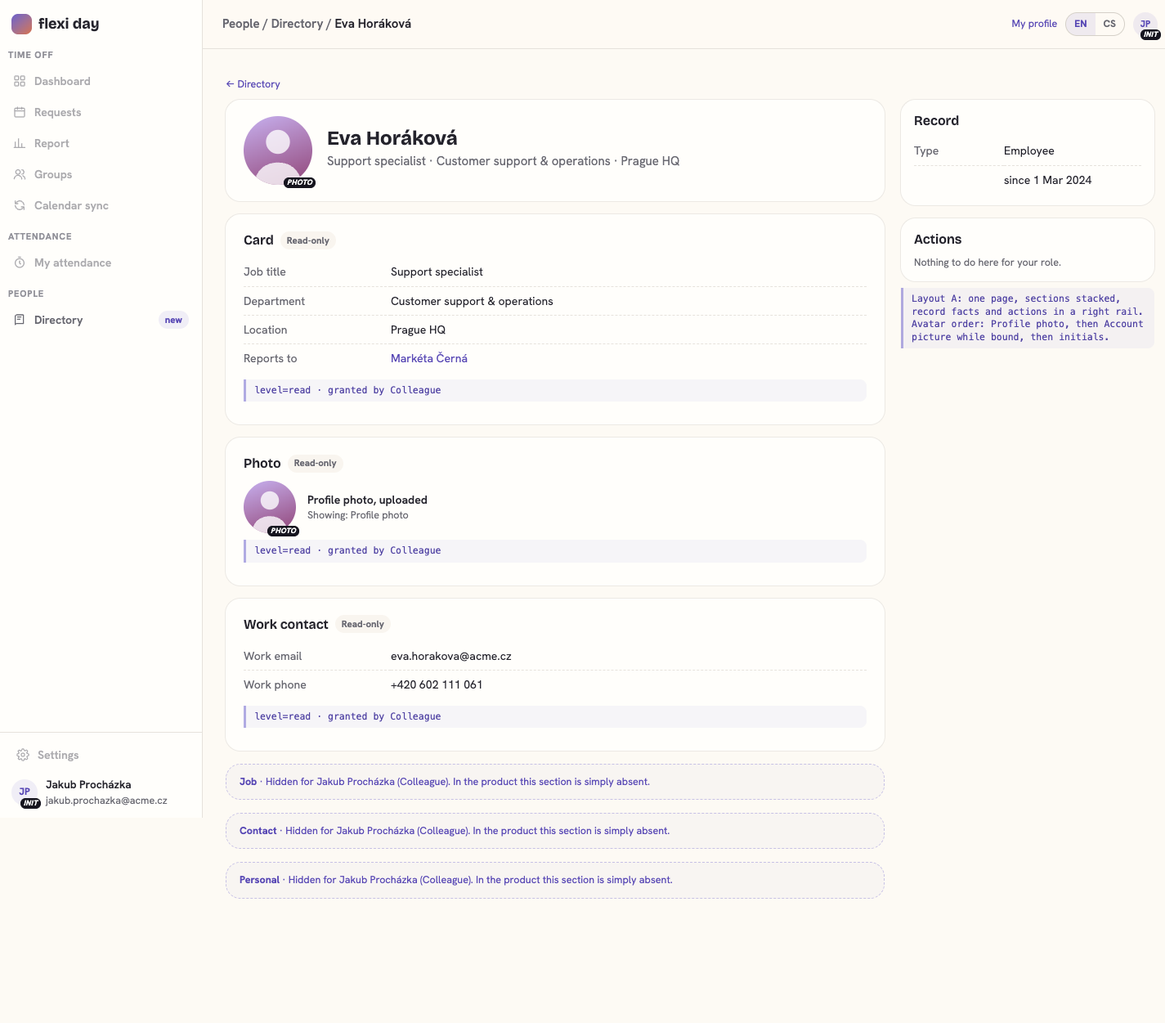
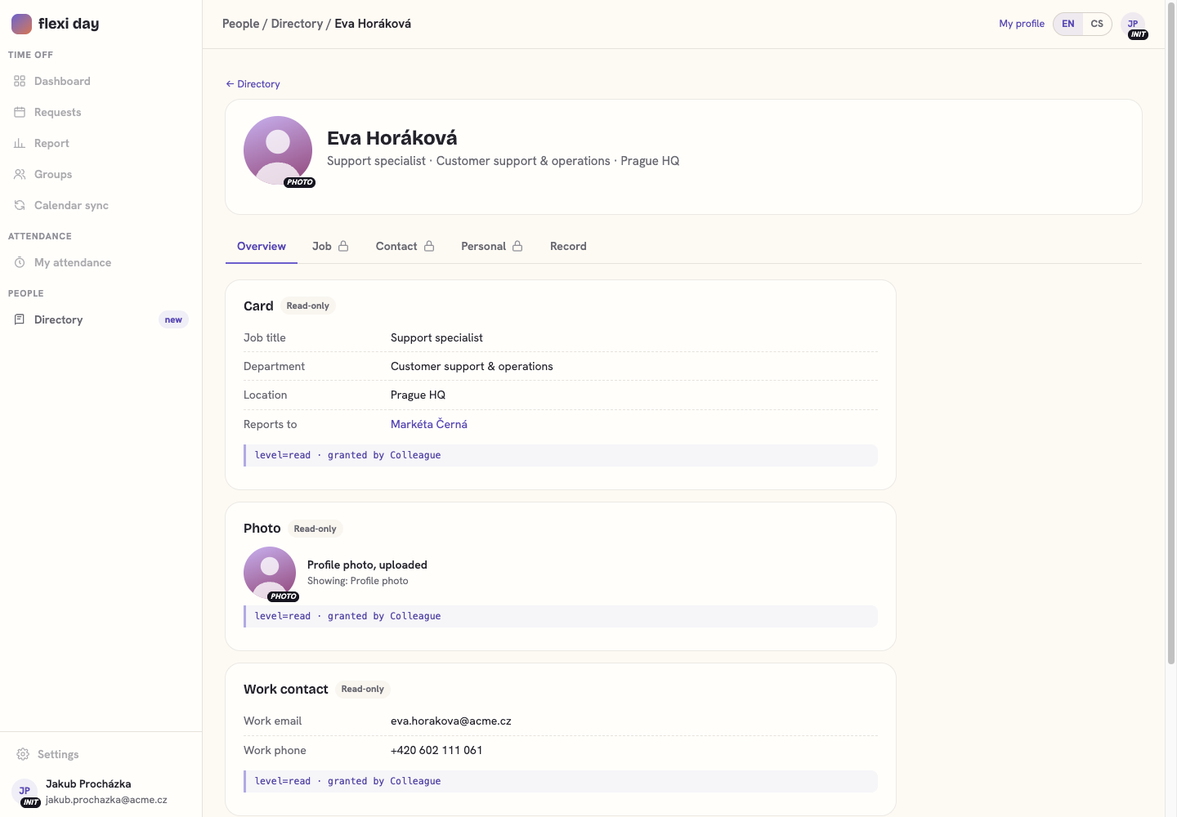
Prototype round 2: tabbed profile, sections opened on Show, rebuilt Add person (T-478)
- Profile keeps only the header-and-tabs layout; directory keeps cards, with a
  remembered Cards/Table toggle in the filter row.
- Contact and Personal of someone else start closed on the profile and the
  edit form; Show loads one section and writes the read-log row.
- Add person now has the worker type, Card fields, an optional email with an
  invite choice, and inline validation.
- Radios and checkboxes no longer inherit the text-input sizing that broke
  the dialogs.

diff --git a/prototypes/directory-web/index.html b/prototypes/directory-web/index.html
@@ -5,7 +5,7 @@
   Question it answers: how the directory, profile, edit form, settings and dialogs
   look and behave on the web, and how the permission table changes them per viewer.
   Pages are hash routes (#/directory, #/person/eva, ...). The dark bar at the
-  bottom is the prototype's own control: viewer, plan, layout variant, annotations.
+  bottom is the prototype's own control: viewer, plan, jump-to, annotations. Round 2: profile is the tabbed layout (W1), Contact and Personal open on Show (W2).
 -->
 <html lang="en">
   <head>
@@ -110,6 +110,27 @@
       .chip.rev { background: var(--review-soft); color: var(--review); }
       .chip.line { background: transparent; box-shadow: inset 0 0 0 1px var(--border-strong); }
       input, select, textarea { font: inherit; color: var(--text); background: var(--surface); border: 1px solid var(--border-strong); border-radius: 10px; height: 36px; padding: 0 10px; min-width: 0; }
+      input[type="checkbox"], input[type="radio"] { height: 16px; width: 16px !important; padding: 0; margin: 0; border: 0; flex-shrink: 0; accent-color: var(--primary); }
+      input.bad, select.bad { border-color: var(--danger); box-shadow: 0 0 0 3px var(--danger-soft); }
+      .err { font-size: 12px; color: var(--danger); margin-top: 4px; font-weight: 600; }
+      .err:empty { display: none; }
+      a.hint { color: var(--primary-strong); }
+      .req { color: var(--danger); margin-left: 2px; }
+      .choice { display: grid; grid-template-columns: 1fr 1fr; gap: 10px; }
+      .choice label { display: flex; gap: 10px; align-items: flex-start; padding: 12px 14px; border-radius: 14px; box-shadow: inset 0 0 0 1px var(--border-strong); cursor: pointer; }
+      .choice label.on { box-shadow: inset 0 0 0 2px var(--primary); background: var(--primary-soft); }
+      .choice label input { margin-top: 2px; }
+      .choice b { display: block; }
+      .choice span.small { color: var(--muted); }
+      .dlg-sec { font-size: 11.5px; font-weight: 700; letter-spacing: 0.06em; text-transform: uppercase; color: var(--faint); margin: 18px 0 8px; }
+      .dlg-sec:first-child { margin-top: 4px; }
+      .checkline { display: flex; gap: 10px; align-items: flex-start; padding: 10px 12px; border-radius: 12px; background: var(--surface-2); cursor: pointer; }
+      .checkline.dis { opacity: 0.55; cursor: not-allowed; }
+      .checkline input { margin-top: 2px; }
+      .reveal { display: flex; align-items: center; gap: 12px; padding: 14px 16px; border-radius: 14px; background: var(--surface-2); }
+      .viewtoggle { display: inline-flex; border: 1px solid var(--border-strong); border-radius: 10px; overflow: hidden; margin-left: auto; }
+      .viewtoggle button { border: 0; background: var(--surface); height: 34px; padding: 0 12px; font: inherit; font-weight: 600; font-size: 13px; color: var(--muted); cursor: pointer; display: inline-flex; gap: 6px; align-items: center; }
+      .viewtoggle button.on { background: var(--primary-soft); color: var(--primary-strong); }
       textarea { height: auto; padding: 8px 10px; width: 100%; }
       input:disabled, select:disabled, textarea:disabled { background: var(--surface-2); color: var(--muted); }
       input:focus, select:focus, textarea:focus { outline: 2px solid oklch(0.55 0.165 285 / 0.4); outline-offset: 0; }
@@ -441,7 +462,8 @@
 
       // ---------- state ----------
       const S = {
-        route: "/directory", role: "orgAdmin", plan: "ent", lang: "en", pv: "A", dv: "A", ann: true,
+        route: "/directory", role: "orgAdmin", plan: "ent", lang: "en", ann: true, revealed: {},
+        dv: (() => { try { return localStorage.getItem("proto-dir-view") || "A"; } catch (e) { return "A"; } })(),
         enabled: true, agreement: { v: 1, by: "Richard Kolář", at: "2026-09-02" }, agreementV2: false,
         f: { q: "", dept: "", loc: "", type: "" }, ptab: "overview", dialog: null, toast: null, exports: {}, orgExport: null,
         perms: {
@@ -589,12 +611,13 @@
         const [path, q] = h.split("?");
         S.route = path || "/directory";
         const params = new URLSearchParams(q || "");
-        for (const k of ["role", "plan", "lang", "pv", "dv"]) if (params.get(k)) S[k] = params.get(k);
+        for (const k of ["role", "plan", "lang"]) if (params.get(k)) S[k] = params.get(k);
+        if (params.get("view")) S.dv = params.get("view");
         if (params.get("ann")) S.ann = params.get("ann") === "1";
         if (params.get("ptab")) S.ptab = params.get("ptab");
       }
       function hashFor(path) {
-        const q = new URLSearchParams({ role: S.role, plan: S.plan, lang: S.lang, pv: S.pv, dv: S.dv, ann: S.ann ? "1" : "0" });
+        const q = new URLSearchParams({ role: S.role, plan: S.plan, lang: S.lang, ann: S.ann ? "1" : "0" });
         return "#" + path + "?" + q.toString();
       }
       const sync = () => history.replaceState(null, "", hashFor(S.route));
@@ -604,26 +627,28 @@
       const A = {
         go(path) {
           const [p, anchor] = path.split("#");
+          const pid = (s) => (s.match(/^\/person\/([^/]+)/) || [])[1];
+          if (pid(p) !== pid(S.route)) { S.revealed = {}; S.ptab = "overview"; }
           S.route = p; S.dialog = null;
           history.pushState(null, "", hashFor(p));
-          logReadIfNeeded();
           render(); window.scrollTo(0, 0);
           if (anchor) { const el = document.getElementById(anchor); if (el) el.scrollIntoView(); }
         },
         set(k, v) {
           S[k] = v; S.dialog = null;
-          if (k === "plan" && v === "ent") S.agreementV2 = S.agreementV2;
-          sync(); logReadIfNeeded(); render();
+          if (k === "role") S.revealed = {};
+          sync(); render();
         },
+        view(v) { S.dv = v; try { localStorage.setItem("proto-dir-view", v); } catch (e) {} render(); },
         filter(k, v) { S.f[k] = v; render(); },
-        open(kind, extra = {}) { S.dialog = { kind, ...extra }; render(); },
+        open(kind, extra = {}) {
+          S.dialog = { kind, ...extra };
+          if (kind === "add") S.dialog.form = { name: "", type: "employee", title: "", dept: "", loc: "", reportsTo: "", email: "", invite: true };
+          render();
+          if (kind === "add") document.getElementById("addname")?.focus();
+        },
         close() { S.dialog = null; render(); },
         toast(msg) { S.toast = msg; render(); clearTimeout(toastTimer); toastTimer = setTimeout(() => { S.toast = null; render(); }, 2600); },
-        variant(dir) {
-          const k = pageVariantKey(); if (!k) return;
-          const list = ["A", "B"]; const i = list.indexOf(S[k]);
-          S[k] = list[(i + dir + list.length) % list.length]; sync(); render();
-        },
         setPerm(row, aud, val) {
           const before = (S.perms[row] || S.acts[row])[aud];
           (S.perms[row] || S.acts[row])[aud] = val;
@@ -676,19 +701,26 @@
         removePhoto(id) { P[id].photo = null; A.toast("Profile photo removed. Showing the next fallback."); },
       };
       const nowTime = () => { const d = new Date(); return String(d.getHours()).padStart(2, "0") + ":" + String(d.getMinutes()).padStart(2, "0"); };
-      let lastLogged = "";
-      function logReadIfNeeded() {
-        const m = S.route.match(/^\/person\/([^/]+)/);
-        if (!m || !P[m[1]]) return;
-        const r = P[m[1]], v = viewer();
-        if (r.id === v.id) return;
-        const secs = ["contact", "personal"].filter((s) => { const l = level(v, r, s); return l === "read" || l === "write"; });
-        if (!secs.length) return;
-        const key = v.id + r.id + S.route;
-        if (key === lastLogged) return;
-        lastLogged = key;
-        S.readLog.unshift({ at: TODAY + " " + nowTime(), reader: v.name, person: r.name, secs: secs.map((s) => t("sec_" + s)).join(", "), aud: t("aud_" + grantedBy(v, r, secs[0])), kind: "read" });
+      function addErrors(f) {
+        const cs = S.lang === "cs";
+        const e = {};
+        const name = (f.name || "").trim(), email = (f.email || "").trim().toLowerCase();
+        if (!name) e.name = cs ? "Vyplňte jméno." : "Enter a name.";
+        if (email && !/^[^@\s]+@[^@\s]+\.[^@\s]+$/.test(email)) e.email = cs ? "Zadejte e-mail ve tvaru jmeno@example.com." : "Enter an email like name@example.com.";
+        else if (email) {
+          const clash = openPeople().find((p) => p.email.toLowerCase() === email);
+          if (clash) e.email = cs ? `${clash.name} už tento e-mail používá.` : `${clash.name} already uses this email. Each open Employment needs its own.`;
+        }
+        if (f.invite && !email && f.inviteAsked) e.email = cs ? "Pozvánka potřebuje e-mail." : "An invite needs an email.";
+        return e;
       }
+      const revealed = (r, s) => r.id === viewer().id || !!S.revealed[r.id + ":" + s];
+      A.reveal = (id, s) => {
+        const r = P[id], v = viewer();
+        S.revealed[id + ":" + s] = true;
+        S.readLog.unshift({ at: TODAY + " " + nowTime(), reader: v.name, person: r.name, secs: t("sec_" + s), aud: t("aud_" + grantedBy(v, r, s)), kind: "read" });
+        render();
+      };
 
       // ---------- shell ----------
       function shell(content) {
@@ -815,6 +847,7 @@
             <select onchange="A.filter('dept',this.value)"><option value="">${t("allDepts")}</option>${usedDepts.map((d) => `<option value="${d.id}" ${S.f.dept === d.id ? "selected" : ""}>${d.name}</option>`).join("")}</select>
             <select onchange="A.filter('loc',this.value)"><option value="">${t("allLocs")}</option>${usedLocs.map((d) => `<option value="${d.id}" ${S.f.loc === d.id ? "selected" : ""}>${d.name}</option>`).join("")}</select>
             <select onchange="A.filter('type',this.value)"><option value="">${t("allTypes")}</option><option value="employee" ${S.f.type === "employee" ? "selected" : ""}>${t("onlyEmp")}</option><option value="external" ${S.f.type === "external" ? "selected" : ""}>${t("onlyExt")}</option></select>
+            <div class="viewtoggle"><button class="${S.dv === "A" ? "on" : ""}" onclick="A.view('A')">${I.grid} ${S.lang === "cs" ? "Karty" : "Cards"}</button><button class="${S.dv === "B" ? "on" : ""}" onclick="A.view('B')">${I.users} ${S.lang === "cs" ? "Tabulka" : "Table"}</button></div>
           </div>`;
         let body;
         if (S.dv === "A") {
@@ -891,7 +924,9 @@
         const sensitive = s === "contact" || s === "personal";
         const editBtn = m !== "read" && !gone ? `<button class="btn xs out" onclick="A.go('/person/${r.id}/edit#${s}')">${I.pen} ${m === "clear" ? t("clearOnly") : t("edit")}</button>` : "";
         let body;
+        const closed = sensitive && !gone && !revealed(r, s);
         if (gone) body = `<p class="muted small" style="margin:0">The fields of this section were emptied. The rest of the record stays.</p>`;
+        else if (closed) body = revealBox(r, s);
         else if (s === "photo") {
           const k = avatarKind(r, v);
           body = `<div class="row" style="gap:14px">${avatar(r, v, 64)}<div><div style="font-weight:600">${r.photo != null ? "Profile photo, uploaded" : "No Profile photo"}</div><div class="small muted">Showing: ${k}</div>
@@ -899,12 +934,15 @@
             ${m === "clear" && r.photo != null ? `<div class="row" style="margin-top:8px"><button class="btn xs ghost" onclick="A.removePhoto('${r.id}')">Remove</button></div>` : ""}</div></div>`;
         } else body = `<dl class="fl">${fieldRows(r, s, v)}</dl>`;
         return `<div class="card" id="sec-${s}">
-          <div class="sec-h"><h2>${t("sec_" + s)}</h2>${sensitive ? `<span class="faint" title="${t("sensitiveNote")}">${I.lock}</span>` : ""}${lvlChip(m)}<div class="grow"></div>${s !== "photo" ? editBtn : ""}</div>
-          ${sensitive && r.id !== v.id ? `<div class="sec-note">${I.eye} Your view of this section is recorded in the read log.</div>` : ""}
+          <div class="sec-h"><h2>${t("sec_" + s)}</h2>${sensitive ? `<span class="faint" title="${t("sensitiveNote")}">${I.lock}</span>` : ""}${lvlChip(m)}<div class="grow"></div>${s !== "photo" && !closed ? editBtn : ""}</div>
+          ${sensitive && r.id !== v.id && !closed && !gone ? `<div class="sec-note">${I.eye} You opened this section. The read log recorded it.</div>` : ""}
           ${rem ? `<div class="removal ${rem.k}">${rem.k === "hold" ? I.pause : I.hist} ${rem.text}</div>` : ""}
           ${body}
           ${S.ann ? `<div class="ann">level=${l}${m === "clear" ? " (lapsed: clear only)" : ""} · granted by ${t("aud_" + (grantedBy(v, r, s) || "colleague"))}</div>` : ""}
         </div>`;
+      }
+      function revealBox(r, s) {
+        return `<div class="reveal">${I.lock}<div class="grow"><div style="font-weight:600">${S.lang === "cs" ? "Skryto, dokud to neotevřete" : "Hidden until you open it"}</div><div class="small muted">Opening ${t("sec_" + s)} adds a row to the read log: you, ${r.name}, this section, now.</div></div><button class="btn sm out" onclick="A.reveal('${r.id}','${s}')">${I.eye} ${S.lang === "cs" ? "Zobrazit" : "Show"}</button></div>`;
       }
       function recordFacts(r, v) {
         const see = adminMarkers(v) || r.id === v.id;
@@ -918,7 +956,7 @@
         if (r.prevSpell && adminMarkers(v)) facts.push(["Earlier spell", `<a onclick="A.go('/person/${r.prevSpell}')">${fd(P[r.prevSpell].start)} to ${fd(P[r.prevSpell].ended)}</a>`]);
         if (r.rejoinedAs) facts.push(["Rejoined", `<a onclick="A.go('/person/${r.rejoinedAs}')">open spell since ${fd(P[r.rejoinedAs].start)}</a>`]);
         if (r.hold) facts.push(["Retention hold", `set by ${r.hold.by} on ${fd(r.hold.at)}`]);
-        return `<dl class="fl" style="grid-template-columns:110px 1fr">${facts.filter((f) => f[1]).map((f) => `<dt>${f[0]}</dt><dd>${f[1]}</dd>`).join("")}</dl>`;
+        return `<dl class="fl" style="grid-template-columns:110px 1fr">${facts.filter((f) => f[0] && f[1]).map((f) => `<dt>${f[0]}</dt><dd>${f[1]}</dd>`).join("")}</dl>`;
       }
       function actionList(r, v, inline) {
         const items = [];
@@ -965,21 +1003,14 @@
         const holdBanner = r.hold ? `<div class="banner rev">${I.pause}<div><b>Retention hold.</b> Retention purges skip this record until the hold is lifted. Set by ${r.hold.by} on ${fd(r.hold.at)}. Erasure still works.</div>${isAdmin(v) ? `<button class="btn sm out" onclick="A.open('hold',{id:'${r.id}'})">${t("liftHold")}</button>` : ""}</div>` : "";
         const exp = S.exports[r.id];
         const expLine = exp ? `<div class="box small">${exp.state === "ready" ? `${I.dl} Export ready, available until ${fd(exp.until)}. <a onclick="A.toast('Link re-signed. Download starts.')">Download</a>` : `<span class="spinner"></span> Preparing export…`}</div>` : "";
-        if (S.pv === "A") {
-          return `${backLink}<div style="height:10px"></div>${lapseBanner()}${copyBanner(r, v)}${holdBanner}
-            <div class="pgridA"><div class="stack">${`<div class="card">${head}</div>`}${SECTIONS.map((s) => sectionCard(r, s, v)).join("")}</div>
-            <div class="stack"><div class="card tight"><h2 style="margin-bottom:8px">${t("record")}</h2>${recordFacts(r, v)}</div>
-            <div class="card tight"><h2 style="margin-bottom:8px">${t("actions")}</h2>${actionList(r, v)}${expLine}</div>
-            ${ann(`Layout A: one page, sections stacked, record facts and actions in a right rail. Avatar order: Profile photo, then Account picture while bound, then initials.`)}</div></div>`;
-        }
-        const tabs = [["overview", "Overview", ["card", "photo", "workContact"]], ["job", t("sec_job"), ["job"]], ["contact", t("sec_contact"), ["contact"]], ["personal", t("sec_personal"), ["personal"]], ["record", t("record"), []]];
+        const tabs = [["overview", S.lang === "cs" ? "Přehled" : "Overview", ["card", "photo", "workContact"]], ["job", t("sec_job"), ["job"]], ["contact", t("sec_contact"), ["contact"]], ["personal", t("sec_personal"), ["personal"]], ["record", t("record"), []]];
         const visTabs = tabs.filter(([k, , secs]) => !secs.length || secs.some((s) => !["none", "na"].includes(level(v, r, s))) || S.ann);
         const cur = visTabs.find((x) => x[0] === S.ptab) || visTabs[0];
         return `${backLink}<div style="height:10px"></div>${lapseBanner()}${copyBanner(r, v)}${holdBanner}
           <div class="card">${head}<div style="margin-top:16px">${actionList(r, v, true)}</div>${expLine}</div>
           <div class="tabs">${visTabs.map(([k, label, secs]) => { const hid = secs.length && secs.every((s) => ["none", "na"].includes(level(v, r, s))); return `<div class="tab ${cur[0] === k ? "on" : ""}" onclick="S.ptab='${k}';render()">${label}${hid ? ` <span class="faint">${I.lock}</span>` : ""}</div>`; }).join("")}</div>
           <div class="stack" style="max-width:820px">${cur[0] === "record" ? `<div class="card">${recordFacts(r, v)}</div>` : cur[2].map((s) => sectionCard(r, s, v)).join("")}</div>
-          ${ann("Layout B: header with actions as buttons, one tab per section group. Tabs the viewer can't read are hidden in the product (shown with a lock here only while annotations are on).")}`;
+          ${ann("Header with the actions as buttons, then one tab per section group (W1). A tab the viewer can't read is absent in the product; it shows with a lock here only while notes are on. Contact and Personal of someone else start closed and load on Show, which is what writes the read-log row (W2). Avatar order: Profile photo, then Account picture while bound, then initials.")}`;
       }
 
       // ---------- edit form ----------
@@ -1017,7 +1048,7 @@
           return `<div class="card esec ${m === "read" ? "ro" : ""}" id="${s}" data-sec="${s}"><div class="sec-h"><h2>${t("sec_" + s)}</h2>${sensitive ? `<span class="faint">${I.lock}</span>` : ""}${lvlChip(m)}</div>
             ${m === "read" ? `<div class="sec-note">Read-only for you. Shown greyed so you can see what's there.</div>` : ""}
             ${m === "clear" ? `<div class="sec-note">${I.lock} On Pro you can clear values but not set new ones.</div>` : ""}
-            ${inner(dis, m)}</div>`;
+            ${sensitive && !revealed(r, s) ? revealBox(r, s) : inner(dis, m)}</div>`;
         };
         const deptOpts = DEPTS.filter((d) => !d.archived || d.id === r.card.dept).map((d) => [d.id, d.name + (d.archived ? " (archived)" : "")]);
         const locOpts = LOCS.filter((d) => !d.archived || d.id === r.card.loc).map((d) => [d.id, d.name]);
@@ -1069,7 +1100,7 @@
             ${F(t("f_dob"), inp("personal.dob", r.personal.dob, dis, "date"), clr("personal.dob", r.personal.dob, m))}
           </div><div class="hint">Line 1, city and country are needed once any part of the address is filled.</div>`)}
           <div class="row" style="justify-content:flex-end"><button class="btn out" onclick="A.go('/person/${r.id}')">${t("cancel")}</button><button class="btn" onclick="A.saveEdit('${r.id}')">${t("save")}</button></div>
-          ${ann(`Editing as ${t("aud_" + S.role)}. Saves go live with no approval. ${r.id !== v.id && ["contact", "personal"].some((s) => level(v, r, s) !== "none") ? "Opening this form wrote a read-log row, like the profile page does." : ""}`)}
+          ${ann(`Editing as ${t("aud_" + S.role)}. Saves go live with no approval. ${r.id !== v.id && ["contact", "personal"].some((s) => level(v, r, s) !== "none") ? "Contact and Personal stay closed here too until Show; a section opened on the profile stays open for this visit." : ""}`)}
           </div>`;
       }
 
@@ -1252,11 +1283,12 @@
           case "copy": {
             const pr = P[r.prevSpell];
             const opt = (s, label) => {
-              if (s === "personal" && r.type === "external") return `<label class="row faint"><input type="checkbox" disabled> ${label} · skipped, the new spell is external</label>`;
-              if (pr.removed[s]) return `<label class="row faint"><input type="checkbox" disabled> ${label} · removed by retention on ${fd(pr.removed[s])}</label>`;
+              const line = (on, note) => `<label class="checkline ${on ? "" : "dis"}"><input type="checkbox" ${on ? `class="cp" value="${s}" checked` : "disabled"}><span><b>${label}</b><span class="small muted" style="display:block">${note}</span></span></label>`;
+              if (s === "personal" && r.type === "external") return line(false, "Skipped: the new spell is an external worker.");
+              if (pr.removed[s]) return line(false, `Removed by retention on ${fd(pr.removed[s])}.`);
               const has = s === "photo" ? pr.photo != null : s === "contact" ? pr.contact.phone || pr.contact.email : pr.personal.a1 || pr.personal.dob;
-              if (!has) return `<label class="row faint"><input type="checkbox" disabled> ${label} · nothing held</label>`;
-              return `<label class="row"><input type="checkbox" class="cp" value="${s}" checked> ${label} · held, ${t("dueOn", { d: fd(addP(pr.ended, S.ret[s])) }).toLowerCase()}</label>`;
+              if (!has) return line(false, "Nothing held.");
+              return line(true, `Held until ${fd(addP(pr.ended, S.ret[s]))} under the current retention.`);
             };
             return dlg(`${t("copyPrev")}`,
               `<p>${r.name}'s earlier spell ran ${fd(pr.start)} to ${fd(pr.ended)}. Copy whole sections into this spell:</p><div class="stack-s">${opt("contact", t("sec_contact"))}${opt("personal", t("sec_personal"))}${opt("photo", t("sec_photo"))}</div><p class="small muted" style="margin-top:12px">Card, Work contact and Job never carry over. Copying overwrites what this spell holds in those sections.</p>`,
@@ -1280,12 +1312,41 @@
           case "invite":
             return dlg(`${t("invite")} · ${r.name}`, `<label class="f">Email</label><input id="invemail" type="email" value="${r.email}" style="width:100%"><div class="hint">The invite targets this record. Redeeming it binds the account. The sign-up form fills in "${r.name}".</div>
               <label class="f" style="margin-top:12px">Group (optional)</label><select style="width:100%"><option>No group</option><option>Support</option><option>Engineering</option></select>`, cancelBtn() + `<button class="btn" onclick="DLG.invite('${r.id}')">${I.send} ${t("invite")}</button>`);
-          case "add":
-            return dlg(t("addPerson"), `<div class="fgrid"><div class="field full"><label class="f">${t("f_name")}</label><input id="addname" placeholder="Required"></div>
-              <div class="field full"><label class="f">Email</label><input id="addemail" type="email" placeholder="Optional, needed for an invite"></div>
-              <div class="field full"><label class="f">Type</label><div class="row"><label class="row"><input type="radio" name="addtype" value="employee" checked> Employee</label><label class="row"><input type="radio" name="addtype" value="external"> ${t("external")}</label></div></div>
-              <div class="field full"><label class="row"><input type="checkbox" id="addinv"> Send an invite now</label></div></div>
-              <p class="small muted">The person exists only in the directory until they redeem an invite. Nobody books leave or records attendance for them.</p>`, cancelBtn() + `<button class="btn" onclick="DLG.add()">Add</button>`);
+          case "add": {
+            const f = d.form, e = d.err || {};
+            const cs = S.lang === "cs";
+            const opt = (arr, cur) => `<option value="">—</option>` + arr.map(([k, l]) => `<option value="${k}" ${k === cur ? "selected" : ""}>${l}</option>`).join("");
+            const deptOpts = DEPTS.filter((x) => !x.archived).map((x) => [x.id, x.name]);
+            const locOpts = LOCS.filter((x) => !x.archived).map((x) => [x.id, x.name]);
+            const rtOpts = openPeople().sort((a, b) => a.name.localeCompare(b.name)).map((p) => [p.id, p.name]);
+            const emailOk = f.email && !addErrors({ ...f, invite: false }).email;
+            const fieldErr = (k) => `<div class="err" id="err-${k}">${e[k] || ""}</div>`;
+            const typeCard = (val, title, desc) => `<label class="${f.type === val ? "on" : ""}"><input type="radio" id="addtype-${val}" name="addtype" value="${val}" ${f.type === val ? "checked" : ""} onchange="DLG.af('type','${val}',true)"><span><b>${title}</b><span class="small">${desc}</span></span></label>`;
+            const body = `
+              <div class="dlg-sec">${cs ? "Osoba" : "Person"}</div>
+              <div class="fgrid">
+                <div class="field full"><label class="f" for="addname">${t("f_name")}<span class="req">*</span></label><input id="addname" class="${e.name ? "bad" : ""}" value="${f.name}" placeholder="${cs ? "Jméno a příjmení" : "First and last name"}" maxlength="100" oninput="DLG.af('name',this.value)" onblur="DLG.check('name')">${fieldErr("name")}</div>
+                <div class="field full"><div class="choice">
+                  ${typeCard("employee", cs ? "Zaměstnanec" : "Employee", cs ? "Má smlouvu, úvazek a osobní údaje." : "Has a contract, working time and a Personal section.")}
+                  ${typeCard("external", t("external"), cs ? "Bez smlouvy, úvazku a osobních údajů." : "No contract type, working time or Personal section.")}
+                </div></div>
+              </div>
+              <div class="dlg-sec">${t("sec_card")}</div>
+              <div class="fgrid">
+                <div class="field full"><label class="f" for="addtitle">${t("f_title")}</label><input id="addtitle" class="${e.title ? "bad" : ""}" value="${f.title}" maxlength="100" placeholder="${cs ? "např. Skladník" : "e.g. Warehouse operator"}" oninput="DLG.af('title',this.value)">${fieldErr("title")}</div>
+                <div class="field"><label class="f" for="adddept">${t("f_dept")}</label><select id="adddept" onchange="DLG.af('dept',this.value)">${opt(deptOpts, f.dept)}</select><a class="hint" onclick="A.go('/directory/settings/lists')">${cs ? "Spravovat oddělení" : "Manage departments"}</a></div>
+                <div class="field"><label class="f" for="addloc">${t("f_loc")}</label><select id="addloc" onchange="DLG.af('loc',this.value)">${opt(locOpts, f.loc)}</select></div>
+                <div class="field full"><label class="f" for="addrt">${t("f_reportsTo")}</label><select id="addrt" onchange="DLG.af('reportsTo',this.value)">${opt(rtOpts, f.reportsTo)}</select><div class="hint">${cs ? "Jen informativní, nedává žádná práva." : "Informational. It grants no rights."}</div></div>
+              </div>
+              <div class="dlg-sec">${cs ? "Účet" : "Account"}</div>
+              <div class="fgrid">
+                <div class="field full"><label class="f" for="addemail">Email <span class="faint" style="font-weight:500">(${cs ? "nepovinné" : "optional"})</span></label><input id="addemail" type="email" class="${e.email ? "bad" : ""}" value="${f.email}" placeholder="name@example.com" oninput="DLG.af('email',this.value)" onblur="DLG.check('email')">${fieldErr("email")}${`<div class="hint" id="hint-email" ${e.email ? 'style="display:none"' : ""}>${cs ? "Přihlašovací adresa. Kolegové ji v adresáři nikdy neuvidí." : "Their sign-in address. Colleagues never see it on directory pages."}</div>`}</div>
+                <div class="field full"><label id="inv-line" class="checkline ${emailOk ? "" : "dis"}"><input type="checkbox" id="addinv" ${f.invite && emailOk ? "checked" : ""} ${emailOk ? "" : "disabled"} onchange="DLG.af('invite',this.checked);DLG.syncInvite()"><span><b>${cs ? "Poslat pozvánku hned" : "Send a directory invite now"}</b><span id="inv-note" class="small muted" style="display:block">${emailOk ? (cs ? "Přijetím pozvánky se jejich účet propojí s tímto záznamem." : "Redeeming it binds their account to this record. The sign-up form fills in the name.") : (cs ? "Nejdřív vyplňte platný e-mail." : "Needs a valid email first.")}</span></span></label></div>
+              </div>
+              <div class="box small" style="margin-top:14px">${cs ? "Dokud pozvánku nepřijme, existuje osoba jen v adresáři. Nikdo za ni nezadává volno ani docházku." : "Until they redeem an invite, the person exists only in the directory. Nobody books leave or records attendance for them."} ${f.type === "external" ? (cs ? "Externí spolupracovníci se nemohou přihlásit do docházky." : "External workers can't clock in.") : ""}</div>
+              ${Object.keys(e).length ? `<div class="box danger small">${cs ? "Opravte zvýrazněná pole." : "Fix the highlighted fields to continue."}</div>` : ""}`;
+            return dlg(t("addPerson"), body, cancelBtn() + `<button class="btn" id="add-submit" onclick="DLG.add()">${I.plus} ${f.invite && emailOk ? (cs ? "Přidat a pozvat" : "Add and send invite") : t("addPerson")}</button>`, true);
+          }
           case "retention": {
             const has = (p, s) => ({ card: p.card.title, photo: p.photo != null, workContact: p.work.email || p.work.phone, job: p.job.number || p.job.start, contact: p.contact.phone || p.contact.email || p.contact.ec[0].name, personal: p.personal.a1 || p.personal.dob })[s];
             const n = formerPeople().filter((p) => has(p, d.sec) && !p.hold && !p.removed[d.sec] && addP(p.ended, d.val) <= TODAY && (S.ret[d.sec] === "forever" || addP(p.ended, S.ret[d.sec]) > TODAY)).length;
@@ -1294,7 +1355,7 @@
           }
           case "agreement":
             return dlg(`People directory agreement · version ${d.v}`, `<div class="box" style="height:170px;overflow:auto;font-size:13px">(The owner's legal text goes here: Flexi Day processes directory data on ${ORG}'s instructions, no biometric processing of photos, sub-processors, retention, return and deletion at the end of service…)</div>
-              <label class="row" style="margin-top:12px"><input type="checkbox" id="agree" onchange="document.getElementById('agreeBtn').disabled=!this.checked"> I accept this agreement for ${ORG}</label>
+              <label class="checkline" style="margin-top:12px"><input type="checkbox" id="agree" onchange="document.getElementById('agreeBtn').disabled=!this.checked"><span><b>I accept this agreement for ${ORG}</b></span></label>
               <p class="small muted">We record who accepted, when, and which version.</p>`, cancelBtn() + `<button class="btn" id="agreeBtn" disabled onclick="DLG.agree(${d.v})">${S.enabled ? "Accept" : "Accept and turn on"}</button>`, true);
           case "turnoff":
             return dlg("Turn the directory off?", `<p>The directory pages disappear for everyone. Profiles stay stored, retention purges keep running and the organization export still works.</p><p class="small muted">Deleting all directory data is a separate action.${lapsed() ? " <b>While lapsed, you can't turn it back on.</b>" : ""}</p>`, cancelBtn() + `<button class="btn" onclick="S.enabled=false;A.go('/organization');A.toast('Directory off. Data kept.')">Turn off</button>`);
@@ -1344,25 +1405,49 @@
         },
         erase(id) { const r = P[id]; if (document.getElementById("erasename").value.trim() !== r.name) { A.toast("Type the exact name"); return; } r.erased = true; A.go(r.ended ? "/directory/former" : "/directory"); A.toast("Erased"); },
         invite(id) { P[id].invite = "sent"; P[id].email = document.getElementById("invemail").value; A.close(); A.toast("Invite sent"); },
+        af(k, val, rerender) {
+          const f = S.dialog.form;
+          f[k] = val;
+          if (S.dialog.err && S.dialog.err[k] && !addErrors(f)[k]) DLG.patchErr(k, "");
+          if (rerender) render(); else if (k === "email") DLG.syncInvite();
+        },
+        check(k) {
+          if (rendering || !S.dialog) return;
+          DLG.patchErr(k, addErrors(S.dialog.form)[k] || "");
+        },
+        patchErr(k, msg) {
+          S.dialog.err = S.dialog.err || {};
+          if (msg) S.dialog.err[k] = msg; else delete S.dialog.err[k];
+          const input = document.getElementById("add" + k), box = document.getElementById("err-" + k), hint = document.getElementById("hint-" + k);
+          if (input) input.classList.toggle("bad", !!msg);
+          if (box) box.textContent = msg;
+          if (hint) hint.style.display = msg ? "none" : "";
+        },
+        syncInvite() {
+          const f = S.dialog.form, cs = S.lang === "cs";
+          const ok = !!f.email && !addErrors({ ...f, invite: false }).email;
+          const cb = document.getElementById("addinv");
+          cb.disabled = !ok; cb.checked = ok && f.invite;
+          document.getElementById("inv-line").classList.toggle("dis", !ok);
+          document.getElementById("inv-note").textContent = ok ? (cs ? "Přijetím pozvánky se jejich účet propojí s tímto záznamem." : "Redeeming it binds their account to this record. The sign-up form fills in the name.") : cs ? "Nejdřív vyplňte platný e-mail." : "Needs a valid email first.";
+          document.getElementById("add-submit").lastChild.textContent = " " + (ok && f.invite ? (cs ? "Přidat a pozvat" : "Add and send invite") : t("addPerson"));
+        },
         add() {
-          const name = document.getElementById("addname").value.trim(); if (!name) { A.toast("A name is required"); return; }
+          const f = S.dialog.form;
+          const err = addErrors(f);
+          if (Object.keys(err).length) { S.dialog.err = err; render(); return; }
           const id = "n" + Date.now();
-          const p = person({ id, name, email: document.getElementById("addemail").value.trim(), account: "none", start: TODAY, type: document.querySelector('[name="addtype"]:checked').value, card: { title: "", dept: "", loc: "", reportsTo: "" } });
-          if (document.getElementById("addinv").checked && p.email) p.invite = "sent";
-          PEOPLE.push(p); P[id] = p; A.go("/person/" + id + "/edit"); A.toast("Added. Fill in the rest.");
+          const p = person({ id, name: f.name.trim(), email: f.email.trim().toLowerCase(), account: "none", start: TODAY, type: f.type, card: { title: f.title.trim(), dept: f.dept, loc: f.loc, reportsTo: f.reportsTo }, job: J({ start: TODAY }) });
+          if (f.invite && p.email) p.invite = "sent";
+          PEOPLE.push(p); P[id] = p;
+          A.go("/person/" + id);
+          A.toast(p.invite ? `Added ${p.name} and sent the invite` : `Added ${p.name}`);
         },
         agree(v) { S.agreement = { v, by: viewer().name, at: TODAY }; S.enabled = true; S.agreementV2 = false; A.close(); A.toast(`Agreement version ${v} accepted`); },
       };
 
       // ---------- prototype bar ----------
-      function pageVariantKey() {
-        if (S.route === "/directory") return "dv";
-        if (/^\/person\/[^/]+$/.test(S.route)) return "pv";
-        return null;
-      }
-      const VNAMES = { dv: { A: "Cards", B: "Table" }, pv: { A: "One page + rail", B: "Header + tabs" } };
       function protoBar() {
-        const vk = pageVariantKey();
         const jumps = [
           ["/directory", "Directory"], ["/directory/former", "Former list"], ["/person/eva", "Profile · Eva (full)"], ["/person/eva/edit", "Edit · Eva"],
           ["/person/hana", "Profile · Hana (rejoined)"], ["/person/jonas", "Profile · Jonas (external)"], ["/person/petra", "Profile · Petra (no account)"],
@@ -1374,7 +1459,6 @@
           <label>viewer <select onchange="A.set('role',this.value)">${Object.entries(VIEWERS).map(([k, id]) => `<option value="${k}" ${S.role === k ? "selected" : ""}>${D.en["aud_" + k]} · ${P[id].name}</option>`).join("")}</select></label>
           <label>plan <select onchange="A.set('plan',this.value)"><option value="ent" ${S.plan === "ent" ? "selected" : ""}>Enterprise</option><option value="lapsed" ${S.plan === "lapsed" ? "selected" : ""}>Pro, lapsed (holds data)</option><option value="none" ${S.plan === "none" ? "selected" : ""}>Pro, never had it</option></select></label>
           <label>go <select onchange="A.go(this.value)"><option value="">jump to…</option>${jumps.map(([p, l]) => `<option value="${p}">${l}</option>`).join("")}</select></label>
-          ${vk ? `<button onclick="A.variant(-1)">←</button><span>${S[vk]} · ${VNAMES[vk][S[vk]]}</span><button onclick="A.variant(1)">→</button>` : ""}
           <label><input type="checkbox" ${S.ann ? "checked" : ""} onchange="A.set('ann',this.checked)"> notes</label>
         </div>`;
       }
@@ -1390,22 +1474,22 @@
         }
         return pageDirectory();
       }
+      let rendering = false;
       function render() {
         const ae = document.activeElement;
         const focusId = ae && ae.id;
         const sel = ae && "selectionStart" in ae ? ae.selectionStart : null;
+        rendering = true;
         document.getElementById("app").innerHTML = shell(page()) + dialog() + protoBar() + (S.toast ? `<div class="toast">${S.toast}</div>` : "");
+        rendering = false;
         if (focusId) { const el = document.getElementById(focusId); if (el) { el.focus(); if (sel != null && el.setSelectionRange) try { el.setSelectionRange(sel, sel); } catch (e) {} } }
       }
       document.addEventListener("keydown", (e) => {
         if (["INPUT", "TEXTAREA", "SELECT"].includes(document.activeElement.tagName)) return;
-        if (e.key === "ArrowLeft") A.variant(-1);
-        if (e.key === "ArrowRight") A.variant(1);
         if (e.key === "Escape") A.close();
       });
       window.addEventListener("popstate", () => { parseHash(); render(); });
       parseHash();
-      logReadIfNeeded();
       render();
     </script>
   </body>
